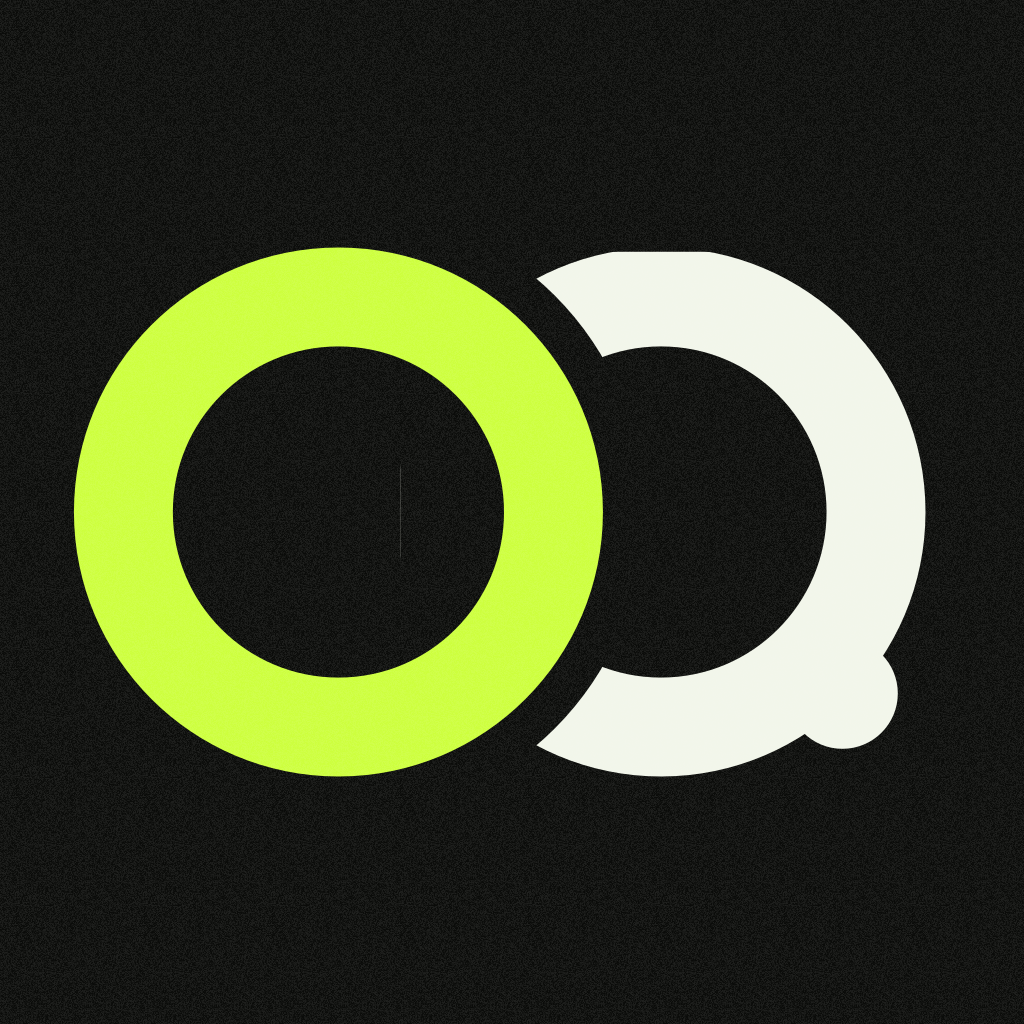
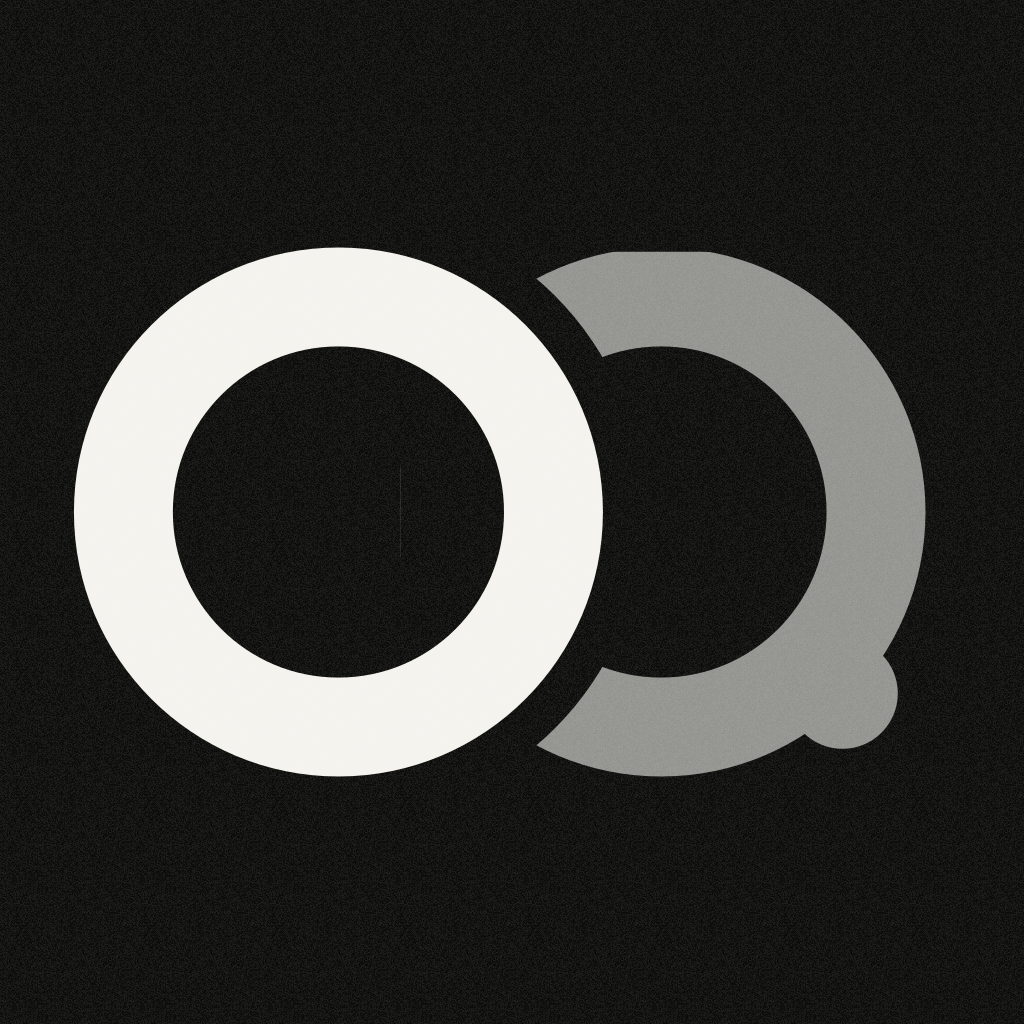
The rings go neutral: one ink, two strengths — an umbrella-brand mark
Cameron plans to reuse the monogram across future apps under a DuoQueue
umbrella, so the mark drops all hue: warm ink at full strength for the
front ring, 58% for the Q — legible on Volt's field today and on any
colorway later. In-app LogoMark mirrors it via colors.text, so it flips
to near-black ink on Paper automatically.

Changed region(s): [[0.0625, 0.2188, 0.5938, 0.7812], [0.5312, 0.2188, 0.9062, 0.7812]]

diff --git a/apps/mobile/src/components/Logo.tsx b/apps/mobile/src/components/Logo.tsx
@@ -41,9 +41,11 @@ const VB_H = CY + R + W / 2 - VB_Y + PAD;
 export const LOGO_MARK_ASPECT = VB_H / VB_W;
 
 function LogoMark({ width }: { width: number }) {
-  const { colors, scheme } = useTheme();
-  // Ring B is the "them" ink: near-white on dark (p2Line), text-ink on paper.
-  const ringB = scheme === "dark" ? colors.p2Line : colors.text;
+  const { colors } = useTheme();
+  // Deliberately hue-free (the mark doubles as the umbrella company brand):
+  // one ink at two strengths — text color full for the front ring, ~58% for
+  // the Q ring — so it sits on Volt and on any future app's colorway alike.
+  const ink = colors.text;
 
   return (
     <View accessibilityRole="image" accessibilityLabel="DuoQueue">
@@ -53,11 +55,11 @@ function LogoMark({ width }: { width: number }) {
           <Circle cx={CXA} cy={CY} r={R} fill="none" stroke="#000000" strokeWidth={W + HALO * 2} />
           <Circle cx={CXA} cy={CY} r={R - W / 2 + HALO} fill="#000000" />
         </Mask>
-        <G mask="url(#weave)">
-          <Circle cx={CXB} cy={CY} r={R} fill="none" stroke={ringB} strokeWidth={W} />
-          <Circle cx={NUB.cx} cy={NUB.cy} r={NUB.r} fill={ringB} />
+        <G mask="url(#weave)" opacity={0.58}>
+          <Circle cx={CXB} cy={CY} r={R} fill="none" stroke={ink} strokeWidth={W} />
+          <Circle cx={NUB.cx} cy={NUB.cy} r={NUB.r} fill={ink} />
         </G>
-        <Circle cx={CXA} cy={CY} r={R} fill="none" stroke={colors.volt} strokeWidth={W} />
+        <Circle cx={CXA} cy={CY} r={R} fill="none" stroke={ink} strokeWidth={W} />
       </Svg>
     </View>
   );
